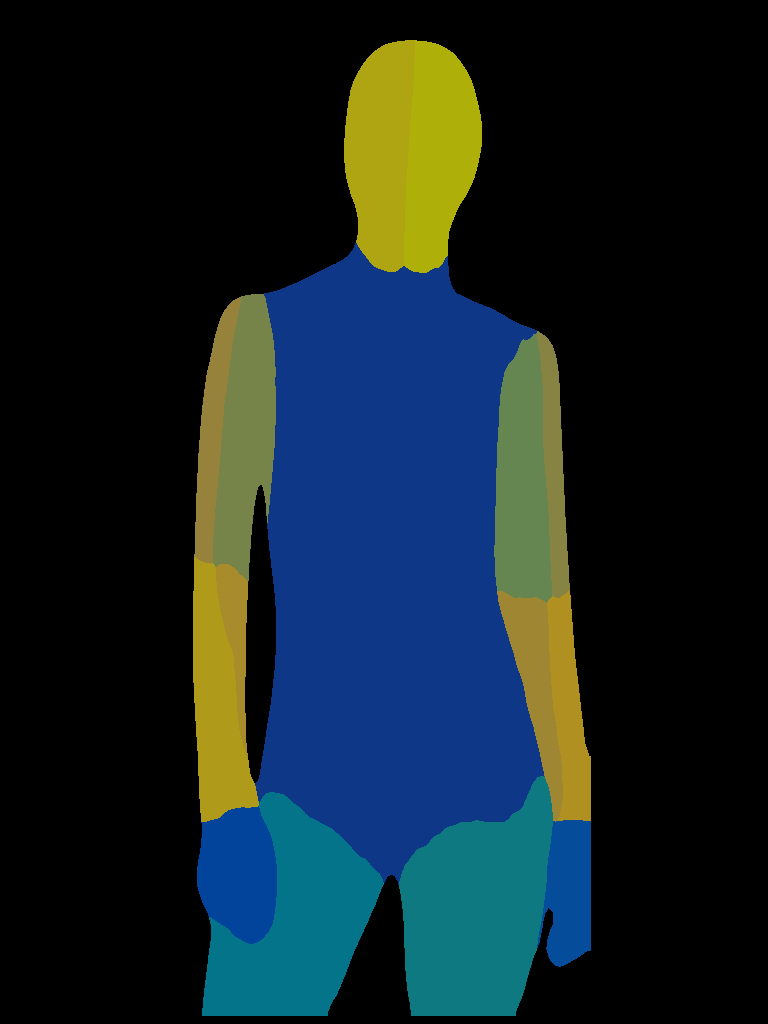
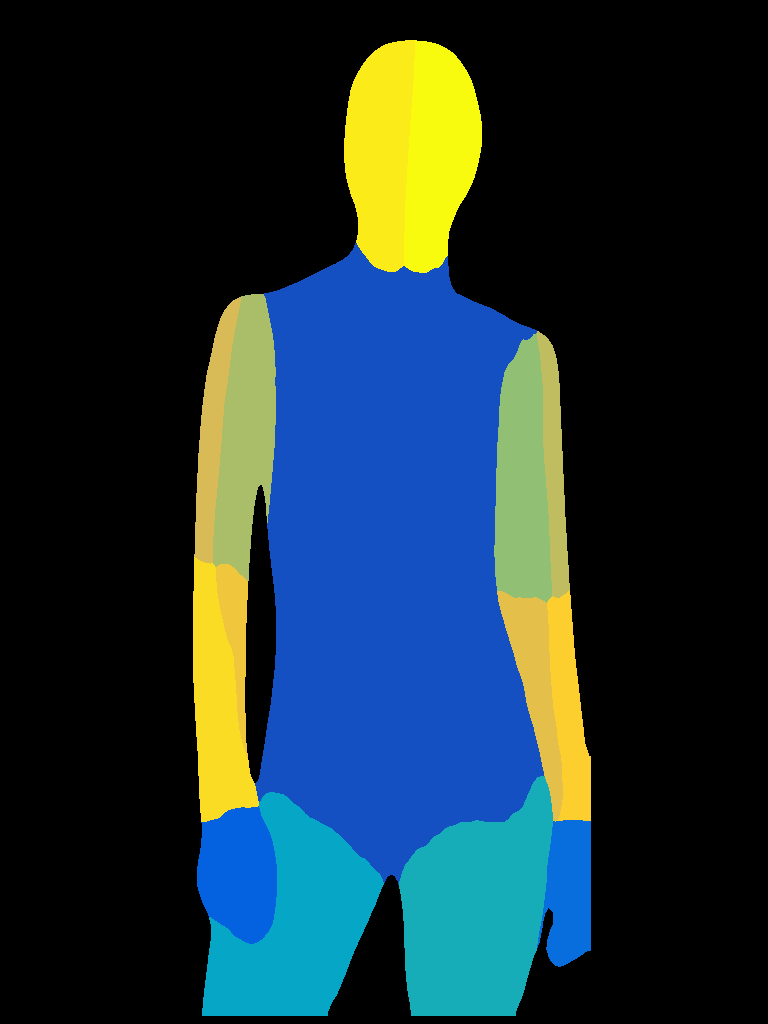
removed transparency

diff --git a/visualize.py b/visualize.py
@@ -25,5 +25,5 @@ with torch.no_grad():
     outputs = predictor(img)['instances']
 
 results = DensePoseResultExtractor()(outputs)
-out_img = Visualizer().visualize(np.zeros(img.shape, dtype=np.uint8), results)
+out_img = Visualizer(alpha=1).visualize(np.zeros(img.shape, dtype=np.uint8), results)
 cv2.imwrite(OUTPUT_IMAGE_PATH, out_img)
